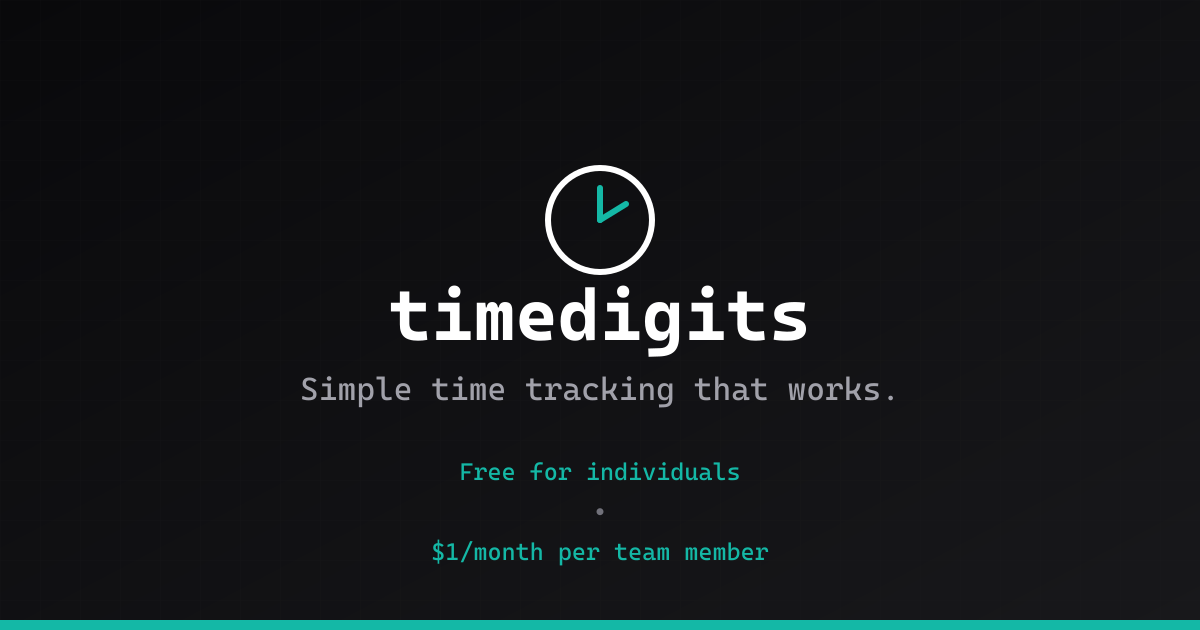
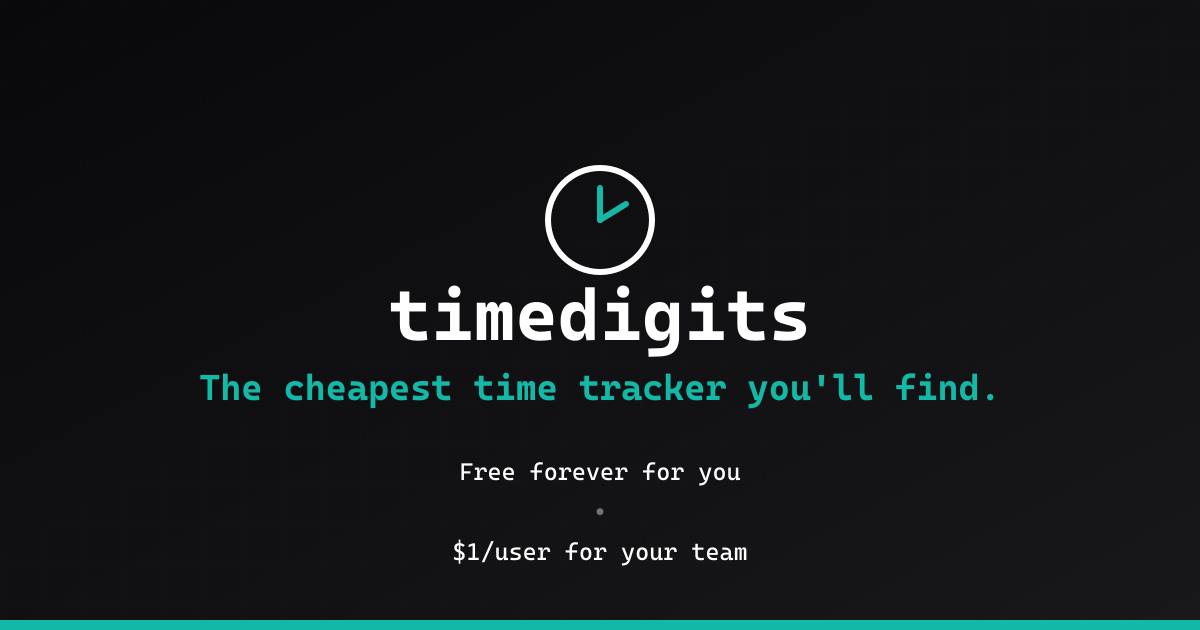
Bold new tagline: The cheapest time tracker. Free forever.
Update tagline across all touchpoints:
- Meta tags (title, description, Open Graph, Twitter)
- JSON-LD structured data
- Hero section with bold messaging
- Footer taglines
- About page headline
- PWA manifest
- Noscript fallback
- OG social share image
- Brand guidelines

New messaging: "The cheapest time tracker you'll find. Free forever for you. $1/user for your team. Period."

Generated with [Claude Code](https://claude.ai/code)
via [Happy](https://happy.engineering)

Changed region(s): [[0.1542, 0.573, 0.8325, 0.6635], [0.3392, 0.8444, 0.6475, 0.9048], [0.37, 0.7238, 0.6167, 0.7841]]

diff --git a/index.html b/index.html
@@ -4,9 +4,9 @@
     <meta charset="UTF-8" />
 
     <!-- Primary Meta Tags -->
-    <title>timedigits - Simple Time Tracking That Works</title>
-    <meta name="title" content="timedigits - Simple Time Tracking That Works" />
-    <meta name="description" content="Track your time effortlessly. Free for individuals, just $1/month per user for teams. No credit card required. Works offline." />
+    <title>timedigits - The Cheapest Time Tracker You'll Find</title>
+    <meta name="title" content="timedigits - The Cheapest Time Tracker You'll Find" />
+    <meta name="description" content="The cheapest time tracker you can find. Free forever for individuals, just $1/month per user for teams. No credit card required." />
     <meta name="keywords" content="time tracking, time tracker, productivity, project management, team time tracking, free time tracker, simple time tracking" />
     <meta name="author" content="timedigits" />
     <meta name="robots" content="index, follow" />
@@ -19,8 +19,8 @@
     <!-- Open Graph / Facebook -->
     <meta property="og:type" content="website" />
     <meta property="og:url" content="https://timedigits.com/" />
-    <meta property="og:title" content="timedigits - Simple Time Tracking That Works" />
-    <meta property="og:description" content="Track your time effortlessly. Free for individuals, just $1/month per user for teams. No credit card required." />
+    <meta property="og:title" content="timedigits - The Cheapest Time Tracker You'll Find" />
+    <meta property="og:description" content="The cheapest time tracker you can find. Free forever for individuals, just $1/month per user for teams. No credit card required." />
     <meta property="og:image" content="https://timedigits.com/og-image.png" />
     <meta property="og:image:width" content="1200" />
     <meta property="og:image:height" content="630" />
@@ -30,8 +30,8 @@
     <!-- Twitter -->
     <meta name="twitter:card" content="summary_large_image" />
     <meta name="twitter:url" content="https://timedigits.com/" />
-    <meta name="twitter:title" content="timedigits - Simple Time Tracking That Works" />
-    <meta name="twitter:description" content="Track your time effortlessly. Free for individuals, just $1/month per user for teams. No credit card required." />
+    <meta name="twitter:title" content="timedigits - The Cheapest Time Tracker You'll Find" />
+    <meta name="twitter:description" content="The cheapest time tracker you can find. Free forever for individuals, just $1/month per user for teams. No credit card required." />
     <meta name="twitter:image" content="https://timedigits.com/og-image.png" />
     <meta name="twitter:site" content="@treedigitsinc" />
     <meta name="twitter:creator" content="@treedigitsinc" />
@@ -85,7 +85,7 @@
           "name": "timedigits",
           "applicationCategory": "BusinessApplication",
           "operatingSystem": "Web, iOS, Android",
-          "description": "Simple time tracking that works. Track your time effortlessly with unlimited projects, history, and exports.",
+          "description": "The cheapest time tracker you can find. Free forever for individuals. Track your time with unlimited projects, history, and exports.",
           "url": "https://timedigits.com",
           "offers": [
             {
@@ -173,8 +173,8 @@
     <!-- Fallback content for users without JavaScript (helps with SEO crawling) -->
     <noscript>
       <div style="padding: 40px; text-align: center; font-family: system-ui, sans-serif; background: #18181B; color: white; min-height: 100vh;">
-        <h1 style="font-size: 2rem; margin-bottom: 1rem;">timedigits - Simple Time Tracking</h1>
-        <p style="color: #a1a1aa; margin-bottom: 2rem;">Track your time effortlessly. Free for individuals, just $1/month per user for teams.</p>
+        <h1 style="font-size: 2rem; margin-bottom: 1rem;">timedigits - The Cheapest Time Tracker</h1>
+        <p style="color: #a1a1aa; margin-bottom: 2rem;">The cheapest time tracker you can find. Free forever for individuals, just $1/month per user for teams.</p>
         <p style="color: #71717a;">Please enable JavaScript to use this application.</p>
         <a href="https://timedigits.vercel.app/login" style="display: inline-block; margin-top: 1rem; padding: 12px 24px; background: #14B8A6; color: white; text-decoration: none; border-radius: 8px;">Get Started</a>
       </div>

diff --git a/scripts/generate-og-image.js b/scripts/generate-og-image.js
@@ -35,13 +35,13 @@ const svgImage = `
   <text x="600" y="340" text-anchor="middle" font-family="system-ui, -apple-system, sans-serif" font-size="72" font-weight="700" fill="#FFFFFF">timedigits</text>
 
   <!-- Tagline -->
-  <text x="600" y="400" text-anchor="middle" font-family="system-ui, -apple-system, sans-serif" font-size="32" font-weight="400" fill="#A1A1AA">Simple time tracking that works.</text>
+  <text x="600" y="400" text-anchor="middle" font-family="system-ui, -apple-system, sans-serif" font-size="36" font-weight="700" fill="#14B8A6">The cheapest time tracker you'll find.</text>
 
   <!-- Value props -->
   <g transform="translate(600, 480)" text-anchor="middle" font-family="system-ui, -apple-system, sans-serif" font-size="24">
-    <text fill="#14B8A6">Free for individuals</text>
+    <text fill="#FFFFFF">Free forever for you</text>
     <text x="0" y="40" fill="#71717A">•</text>
-    <text x="0" y="80" fill="#14B8A6">$1/month per team member</text>
+    <text x="0" y="80" fill="#FFFFFF">$1/user for your team</text>
   </g>
 
   <!-- Teal accent line at bottom -->

diff --git a/src/components/Footer.tsx b/src/components/Footer.tsx
@@ -16,7 +16,7 @@ export function Footer() {
               </span>
             </a>
             <p className="text-zinc-500 text-sm leading-relaxed">
-              Simple time tracking that works.
+              The cheapest time tracker. Free forever.
             </p>
           </div>
 
@@ -53,7 +53,7 @@ export function Footer() {
 
         <div className="pt-8 border-t border-zinc-900 flex flex-col sm:flex-row justify-between items-center gap-4 text-zinc-600 text-xs">
           <p>© 2025 timedigits. All rights reserved.</p>
-          <p>Simple time tracking that works.</p>
+          <p>The cheapest time tracker. Free forever.</p>
         </div>
       </div>
     </footer>

diff --git a/src/components/Hero.tsx b/src/components/Hero.tsx
@@ -34,8 +34,8 @@ export function Hero() {
             </h1>
             
             <p className="text-lg md:text-xl text-zinc-400 max-w-xl mx-auto lg:mx-0 mb-10 leading-relaxed">
-              Free forever for you. <span className="text-white font-semibold">$1/user</span> for your team.
-              No tiers. No tricks. No enterprise pricing.
+              <span className="text-white font-semibold">The cheapest time tracker you'll find.</span>{" "}
+              Free forever for you. $1/user for your team. Period.
             </p>
             
             <div className="flex flex-col sm:flex-row items-center justify-center lg:justify-start gap-4">

diff --git a/src/pages/About.tsx b/src/pages/About.tsx
@@ -18,7 +18,7 @@ export function About() {
       <main className="py-16">
         <div className="container max-w-3xl">
           <h1 className="text-4xl font-bold text-white mb-4">About timedigits</h1>
-          <p className="text-xl text-teal-400 mb-12">Time tracking without the nonsense.</p>
+          <p className="text-xl text-teal-400 mb-12">The cheapest time tracker. Free forever.</p>
 
           <div className="space-y-12">
             {/* Hero statement */}

diff --git a/BRAND_GUIDELINES.md b/BRAND_GUIDELINES.md
@@ -10,7 +10,7 @@
 
 This document defines the visual identity and brand standards for **timedigits**, a simple time tracking application. The brand embodies honesty, minimalism, and a refreshing approach to time tracking.
 
-**Tagline:** "Simple time tracking that works."
+**Tagline:** "The cheapest time tracker. Free forever."
 
 ---
 
@@ -296,9 +296,9 @@ import { Logo, FullLogo } from './components/Logo';
 
 ### Key Messages
 
-1. "Simple time tracking that works."
-2. "Free for you. $1 for your team."
-3. "No tiers, no tricks, no enterprise pricing."
+1. "The cheapest time tracker. Free forever."
+2. "The cheapest time tracker you'll find."
+3. "Free forever for you. $1/user for your team. Period."
 4. "90% cheaper than Toggl, Harvest, Timely."
 
 ### Writing Style
